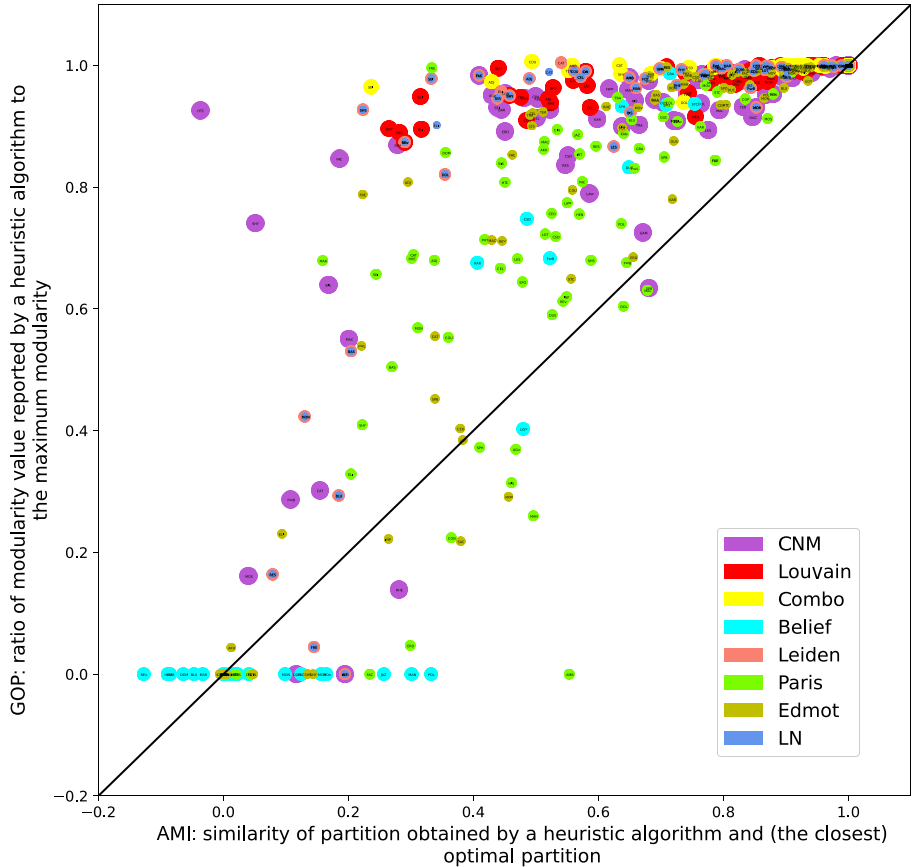
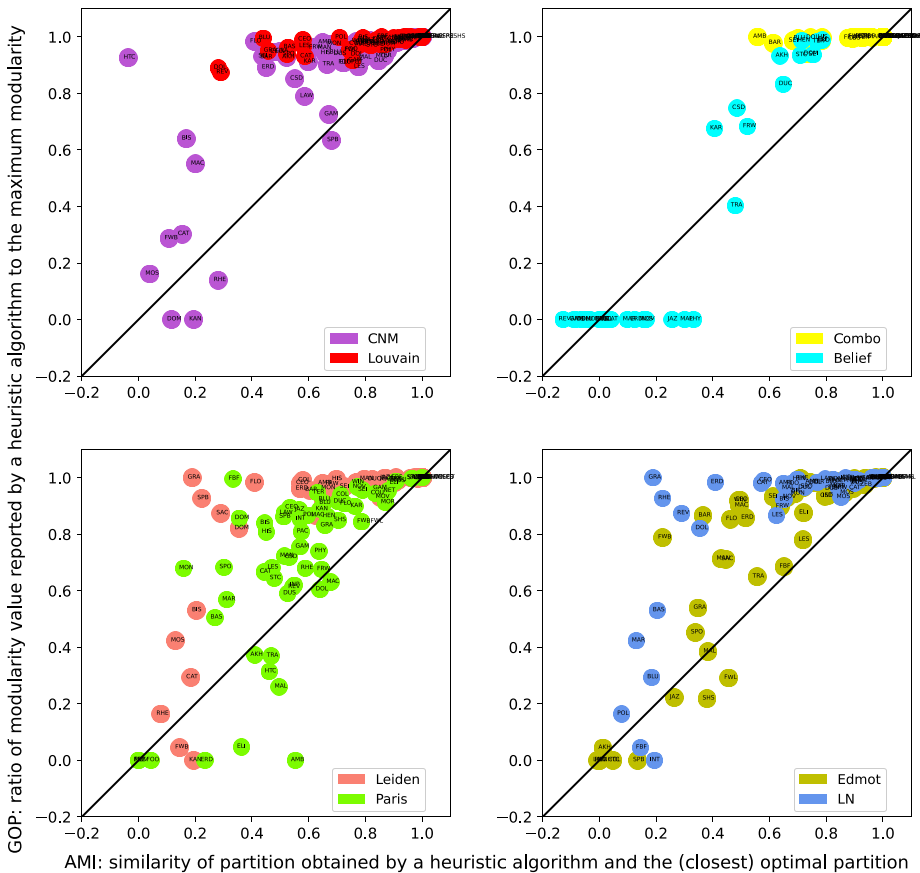
updated the figures and paper links

diff --git a/index.html b/index.html
@@ -29,7 +29,7 @@
   		<p>
   			<ul>
   				<li>
-  					Developing a reliable and accurate algorithm for discovering communities in networks, with optimality guarantees.
+  					Developing a reliable and accurate algorithm for discovering communities in small and mid-sized networks, with optimality guarantees.
   				</li>
   			</ul>
   		</p>
@@ -57,22 +57,22 @@
   	<div id="curr-work-div">
   		<ul>
   			<li>
-  				In the first step of this project, we solved the following exact Integer Programming (IP) model for a testbed of 80 real networks and random graphs. We evaluated eight existing modularity-based community detection methods, <em> <a href="https://cdlib.readthedocs.io/en/latest/reference/cd_algorithms/algs/cdlib.algorithms.greedy_modularity.html">CNM (Greedy)</a>, <a href="https://cdlib.readthedocs.io/en/latest/reference/cd_algorithms/algs/cdlib.algorithms.louvain.html">Louvain</a>, <a href="https://cdlib.readthedocs.io/en/latest/reference/cd_algorithms/algs/cdlib.algorithms.pycombo.html">Combo</a>, <a href="https://cdlib.readthedocs.io/en/latest/reference/cd_algorithms/algs/cdlib.algorithms.belief.html">Belief</a></em>, <em><a href="https://cdlib.readthedocs.io/en/latest/reference/cd_algorithms/algs/cdlib.algorithms.leiden.html">Leiden</a></em>, <em><a href="https://cdlib.readthedocs.io/en/latest/reference/cd_algorithms/algs/cdlib.algorithms.paris.html">Paris</a></em>, <em><a href="https://cdlib.readthedocs.io/en/latest/reference/cd_algorithms/algs/cdlib.algorithms.edmot.html">EdMot</a></em>, and <em><a href="https://cdlib.readthedocs.io/en/latest/reference/cd_algorithms/algs/cdlib.algorithms.rb_pots.html">Leicht Newman (LN)</a></em>.<br>
+  				In the <a href="https://arxiv.org/pdf/2302.14698">first step of this project</a>, we solved the following exact Integer Programming (IP) model for a testbed of 80 real networks and random graphs. We evaluated eight existing modularity-based community detection methods, <em> <a href="https://cdlib.readthedocs.io/en/latest/reference/cd_algorithms/algs/cdlib.algorithms.greedy_modularity.html">CNM (Greedy)</a>, <a href="https://cdlib.readthedocs.io/en/latest/reference/cd_algorithms/algs/cdlib.algorithms.louvain.html">Louvain</a>, <a href="https://cdlib.readthedocs.io/en/latest/reference/cd_algorithms/algs/cdlib.algorithms.pycombo.html">Combo</a>, <a href="https://cdlib.readthedocs.io/en/latest/reference/cd_algorithms/algs/cdlib.algorithms.belief.html">Belief</a></em>, <em><a href="https://cdlib.readthedocs.io/en/latest/reference/cd_algorithms/algs/cdlib.algorithms.leiden.html">Leiden</a></em>, <em><a href="https://cdlib.readthedocs.io/en/latest/reference/cd_algorithms/algs/cdlib.algorithms.paris.html">Paris</a></em>, <em><a href="https://cdlib.readthedocs.io/en/latest/reference/cd_algorithms/algs/cdlib.algorithms.edmot.html">EdMot</a></em>, and <em><a href="https://cdlib.readthedocs.io/en/latest/reference/cd_algorithms/algs/cdlib.algorithms.rb_pots.html">Leicht Newman (LN)</a></em>.<br>
   			</li>
   			<img src="ip_formulation.png">
 				<br>
 				Notation for the <a href="https://doi.org/10.1080/15427951.2014.950875"> IP model</a>: The input is graph G=(V,E) with |V|=n nodes, |E|=m edges, and adjacency matrix entries a_{ij}. d_i is the degree of node i, gamma is the resolution parameter. The term associated with each pair (i,j) is b_{ij} and referred to as the modularity matrix entry for (i,j). Using the binary decision variable x_{ij} for each pair of distinct nodes (i,j), their cluster membership is either the same (represented by x_{ij}=0) or different (represented by x_{ij}=1). K(i,j) indicates a minimum-cardinality separating set for the nodes i,j. Accordingly, the problem of maximizing the modularity of input graph G can be formulated as the IP model above <a href="https://doi.org/10.1080/15427951.2014.950875">(Dinh and Thai 2015)</a>.
 				<br><br>
   			<li>
-  				We investigated the extent to which current heuristic modularity maximization algorithms succeed in maximizing modularity by evaluating <br>(1) the ratio of their output modularity to the maximum modularity for a given graph (GOP) and <br>(2) the similarity between their output partition and all modularity-maximizing partitions of that graph using Adjusted Mutual Information (AMI).<br> The following figure shows a scatterplot of GOP and AMI. It shows GOP on the y-axis and AMI on the x-axis for the combination of each network and algorithm.<br>
+  				We investigated the extent to which current heuristic modularity maximization algorithms succeed in maximizing modularity by evaluating <br>(1) the ratio of their output modularity to the maximum modularity for a given graph (GOP) and <br>(2) the similarity between their output partition and all modularity-maximizing partitions of that graph using Adjusted Mutual Information (AMI).<br> The following figure shows scatterplots of GOP on the y-axis and AMI on the x-axis for the combination of each network and algorithm.<br>
   			</li>
 
   				<img src="scatter.png">
   				<br>
 				<li>
-  				Looking at the y-axis values in the figure, we observe that there is a substantial variation in the values of GOP (i.e., extent of sub-optimality) returned by the eight heuristic algorithms. The x-axis values in the figure show the considerable dissimilarity between the sub-optimal partitions and any optimal partition for these networks. Focusing on the position of data points, we observe that they are mostly located above the 45-degree line. This indicates that sub-optimal partitions tend to be disproportionally dissimilar to any optimal partition. This result goes against the naive viewpoint that close-to-maximum modularity partitions are also close to an optimal partition.
+  				Looking at the y-axis values in the figure, we observe that there is a substantial variation in the values of GOP (i.e., extent of sub-optimality) returned by the eight heuristic algorithms. The x-axis values in the figure show the considerable dissimilarity between the sub-optimal partitions and any optimal partition for these networks. Focusing on the position of data points, we observe that they are mostly located above their corresponding 45-degree line. This indicates that sub-optimal partitions tend to be disproportionally dissimilar to any optimal partition. This result goes against the naive viewpoint that close-to-maximum modularity partitions are also close to an optimal partition.
   			<li>
-					The average modularity-based heuristic algorithm returns optimal partitions for only 15.1% of these graphs. Taken together with the low success rates of heuristic algorithms in maximizing modularity, our results indicate a crucial mismatch between the design philosophy of modularity maximization algorithms for community detection and their performance: Heuristic modularity maximization algorithms rarely return an optimal partition or a partition resembling an optimal partition.
+					The average modularity-based heuristic algorithm returns optimal partitions for only 16.9% of these graphs. Taken together with the low success rates of heuristic algorithms in maximizing modularity, our results indicate a crucial mismatch between the design philosophy of modularity maximization algorithms for community detection and their performance: Heuristic modularity maximization algorithms rarely return an optimal partition or a partition resembling an optimal partition.
 			</li>
 			<li>
          The Bayan algorithm solves this fundamental problem and provides optimal partitions and partitions within a guaranteed proximity to an optimal partition.
@@ -88,7 +88,7 @@
 		<div id="curr-work-div">
 			<ul>
 				<li>
-					In the second step of this project, we compared Bayan with 22 existing methods for community detection in a testbed of randomly generated LFR benchmark graphs. Regardless of using modularity or other approaches, community detection methods can be compared based on their capability in retrieving the ground-truth communities planted in LFR graphs using AMI.
+					In the <a href="https://arxiv.org/pdf/2209.04562">second step of this project</a>, we compared Bayan with 21 existing methods for community detection in a testbed of randomly generated LFR benchmark graphs. Regardless of using modularity or other approaches, community detection methods can be compared based on their capability in retrieving the ground-truth communities planted in LFR graphs using AMI. We generate LFR graphs with different mu parameter values (different fraction of inter-community edges in the graph generation process). Increasing mu  increases the disassociation of the structure and ground-truth communities.
 				</li>
 				<li>
 					We evaluated the AMI between the ground-truth planted partitions and the partitions returned from each algorithm,
@@ -118,20 +118,20 @@
 					<img src="ranking.png"
 					width="1000">
 					<li>
-					The figure above ranks the 23 algorithms based on AMI in seven experiment settings (seven values of the LFR mu parameter indicating the disassociation of the structure and clusters) averaged over 100 LFR graphs.
+					The figure above ranks the 22 algorithms based on AMI in five experiment settings (each with a specific mu parameter value) averaged over 100 LFR graphs.
   			</li>
 				<li>
-					Bayan has a relatively stable performance rank over all values of the mu parameter (fraction of inter-community edges used in generating LFR graphs). Also, averaging the AMIs over all 700 LFR graphs, Bayan has the largest average AMI. This indicates the capability of Bayan in retrieving the ground-truth communities.
+					Bayan has a relatively stable performance rank over different values of the mu parameter. Also, averaging the AMIs over all 500 LFR graphs, Bayan has the largest average AMI. This indicates the distinctive capability of Bayan in retrieving the ground-truth communities. These descriptive results are confirmed by rigorous statistical tests on the performance of these algorithms.
 				</li>
 			</ul>
 		</div>
 	</section>
 	<section id = "current-work">
-		<h1 id="curr-work">Interested to learn more? Check out our preprints on ArXiv.</h1>
+		<h1 id="curr-work">Interested to learn more? Check out our two manuscripts below.</h1>
 		<div id="curr-work-div">
 			<ul>
 				<li>
-					Samin Aref, Mahdi Mostajabdaveh, and Hriday Chheda. "Heuristic modularity maximization algorithms for community detection rarely return an optimal partition or anything similar." <a href="https://arxiv.org/pdf/2209.04562">ArXiv preprint</a>
+					Samin Aref, Mahdi Mostajabdaveh, and Hriday Chheda. "Heuristic modularity maximization algorithms for community detection rarely return an optimal partition or anything similar." <a href="https://arxiv.org/pdf/2302.14698">Paper</a> in the Proceedings of the Int'l Conference on Computational Science 2023
 				</li>
 				<li>
 					Samin Aref, Hriday Chheda, and Mahdi Mostajabdaveh. "The Bayan algorithm: detecting communities in networks through exact and approximate optimization of modularity." <a href="https://arxiv.org/pdf/2209.04562">ArXiv preprint 2209.04562</a>
@@ -145,11 +145,11 @@
 						The Bayan algorithm is publicly available as a part of the <a href="https://cdlib.readthedocs.io/"> Community Discovery Library (CDlib) </a> for Python. We also plan to make a wrapper publicly available for R users.
 						</li>
 				<li>
-					Running Bayan for models with more than 2000 variables or 2000 constraints requires a free academic license to be installed for the mathematical solver Gurobi (which solves the linear programming relaxation problems within the Bayan algorithm). You may follow the instructions in the <a href="https://github.com/saref/bayan">GitHub Repository</a> to request and install a free academic license for Gurobi.
+					Running Bayan for models with more than 2000 variables or 2000 constraints requires a free academic license to be installed for the mathematical solver Gurobi (which solves the linear programming relaxation problems within the Bayan algorithm). You may follow the instructions in the <a href="https://github.com/saref/bayan">GitHub Repository</a> to request and install a free academic license for Gurobi if you are affiliated with an academic institution.
 		</li>
 		<li>
 			Bayan algorithm for Python: <a href="https://cdlib.readthedocs.io/en/latest/reference/cd_algorithms/algs/cdlib.algorithms.bayan.html
-">Documentation</a> and <a href="https://github.com/saref/bayan">GitHub Repository</a>. The Bayan algorithm can be used as follow in Python:
+">Documentation</a> and <a href="https://github.com/saref/bayan">GitHub Repository</a>. The Bayan algorithm can be used as follows in Python:
 </li>
 						<img src="python_example.png">
 
@@ -165,8 +165,8 @@
 		<div id = "personal-samin">
 			<img src="prof_samin_aref.jpeg" id="myphoto">
 			<h1 id = "nametag">Prof. Samin Aref</h1>
-			<p id = "student">Department of Mechanical & Industrial Engineering</p>
-			<p id = "univ">University of Toronto</p>
+			<p id = "student">Department of Mechanical & Industrial Engineering, University of Toronto</p>
+			<p id = "univ"></p>
 
 			</a>
 			<a href="mailto:aref@mie.utoronto.ca">
@@ -185,8 +185,8 @@
 			<h1 id = "nametag">Mahdi Mostajabdaveh, Ph.D.</h1>
 			<p id = "student">Huawei Technologies Canada</p>
 			<p id = "univ"> </p
-			<a href="https://www.gerad.ca/fr/people/mahdi-mostajabdaveh">
-			<p id="suds">Website</p>
+			<a href="http://mahdimostajab.com/">
+			<p id="suds"></p>
 			<a href="mailto:mahdi.mostajabdaveh@polymtl.ca">
 				<img src="gmailicon.png" id = "gmailicon">
 			</a>
@@ -198,8 +198,8 @@
 		<div id = "personal-hriday">
 			<img src="Display.jpg" id="myphoto">
 			<h1 id = "nametag">Hriday Chheda</h1>
-			<p id = "student">4th year undergrad student at the University of Toronto</p>
-			<p id = "univ">Computer Science Specialist, Statistics Major</p>
+			<p id = "student">Department of Computer Science, University of Toronto</p>
+			<p id = "univ"></p>
 			</a>
 			<a href="mailto:hriday.chheda@gmail.com">
 				<img src="gmailicon.png" id = "gmailicon">
